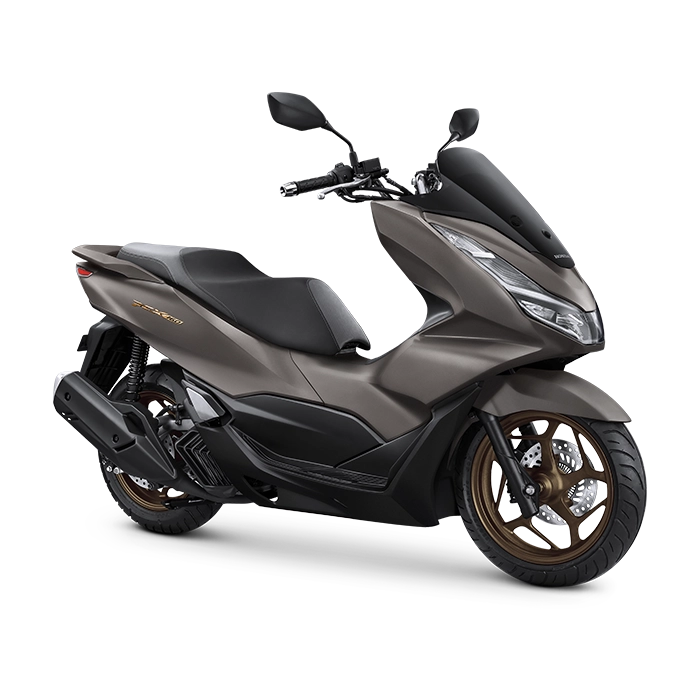
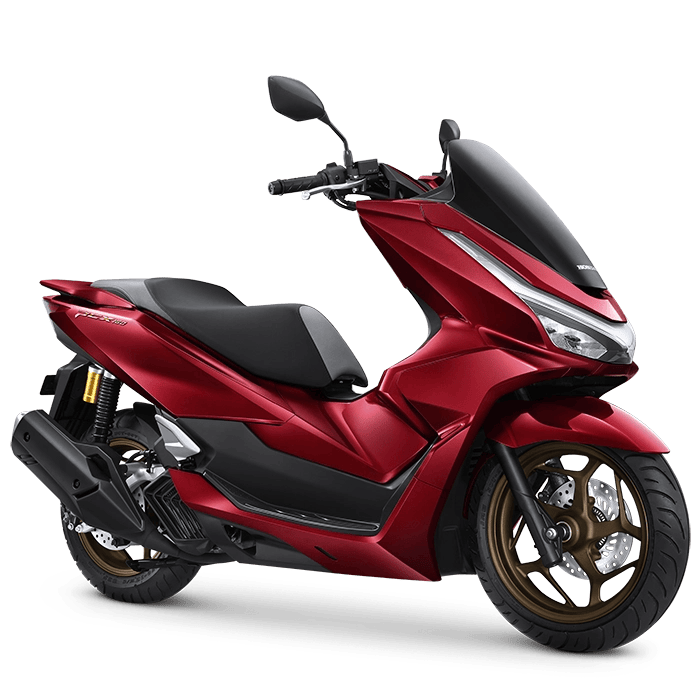
feat(bikes): update PCX bike color variants and images

diff --git a/constants/index.ts b/constants/index.ts
@@ -168,16 +168,16 @@ export const allBikes = [
     price: 33,
     image: "/bikes/pcx.png",
     colorVariant: [
-      "/bikes/pcx/bblack.png",
-      "/bikes/pcx/mblack.png",
-      "/bikes/pcx/mblue.png",
-      "/bikes/pcx/mbrown.png",
-      "/bikes/pcx/mmred.png",
-      "/bikes/pcx/mred.png",
-      "/bikes/pcx/msilver.png",
-      "/bikes/pcx/rmblue.png",
-      "/bikes/pcx/wwhite.png",
-      "/bikes/pcx/wwhitecbs.png",
+      "/bikes/pcx/blackrs.png",
+      "/bikes/pcx/redrs.png",
+      "/bikes/pcx/mblackabs.png",
+      "/bikes/pcx/mredabs.png",
+      "/bikes/pcx/msilverabs.png",
+      "/bikes/pcx/whiteabs.png",
+      "/bikes/pcx/blackcbs.png",
+      "/bikes/pcx/msilvercbs.png",
+      "/bikes/pcx/redcbs.png",
+      "/bikes/pcx/whitecbs.png",
     ],
   },
   {
